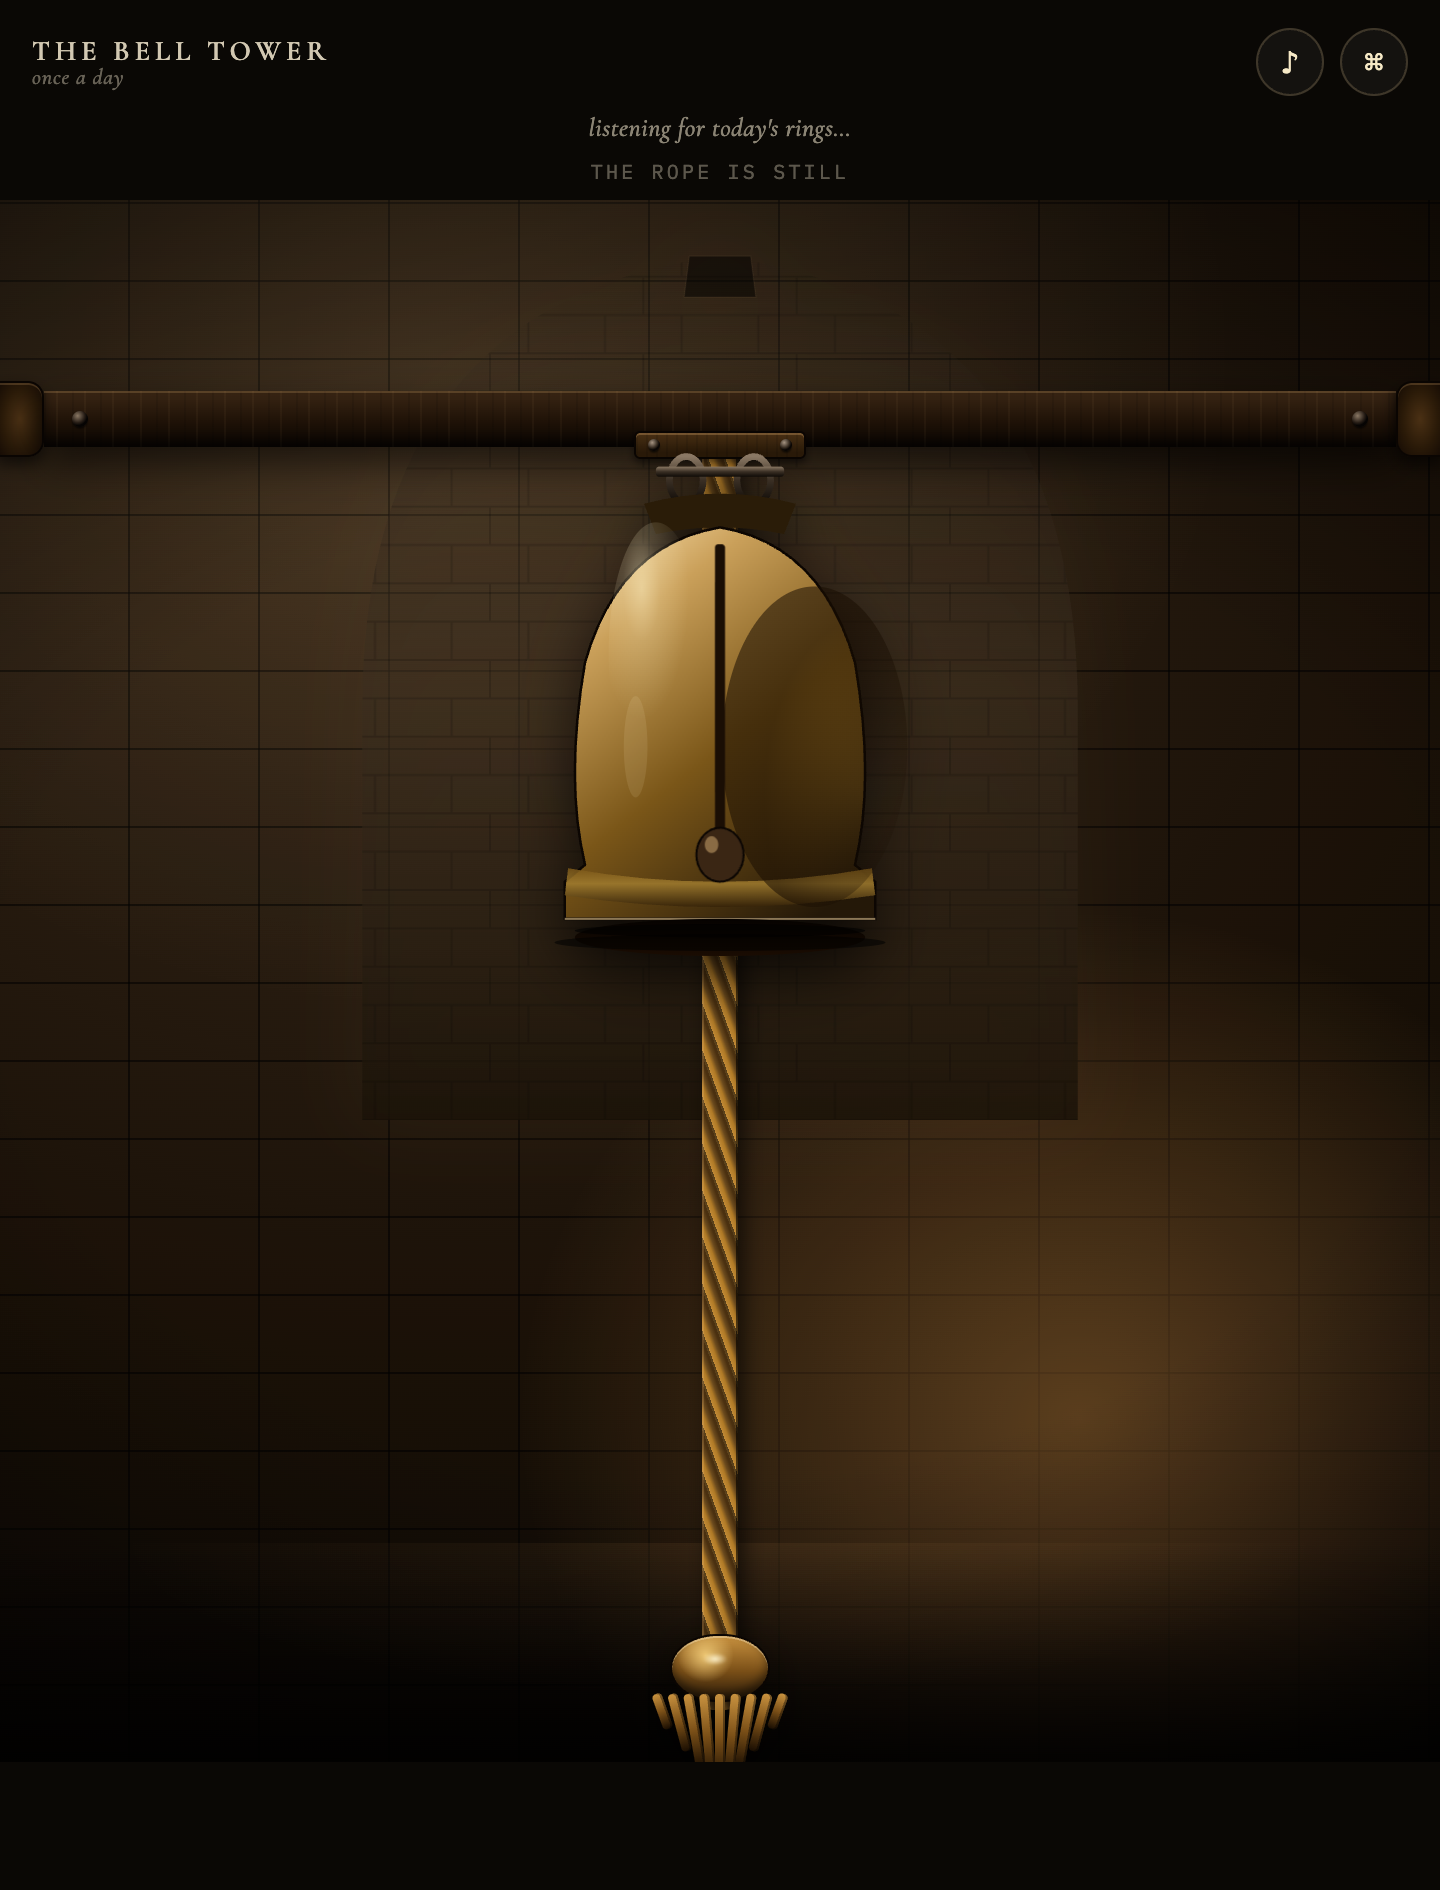
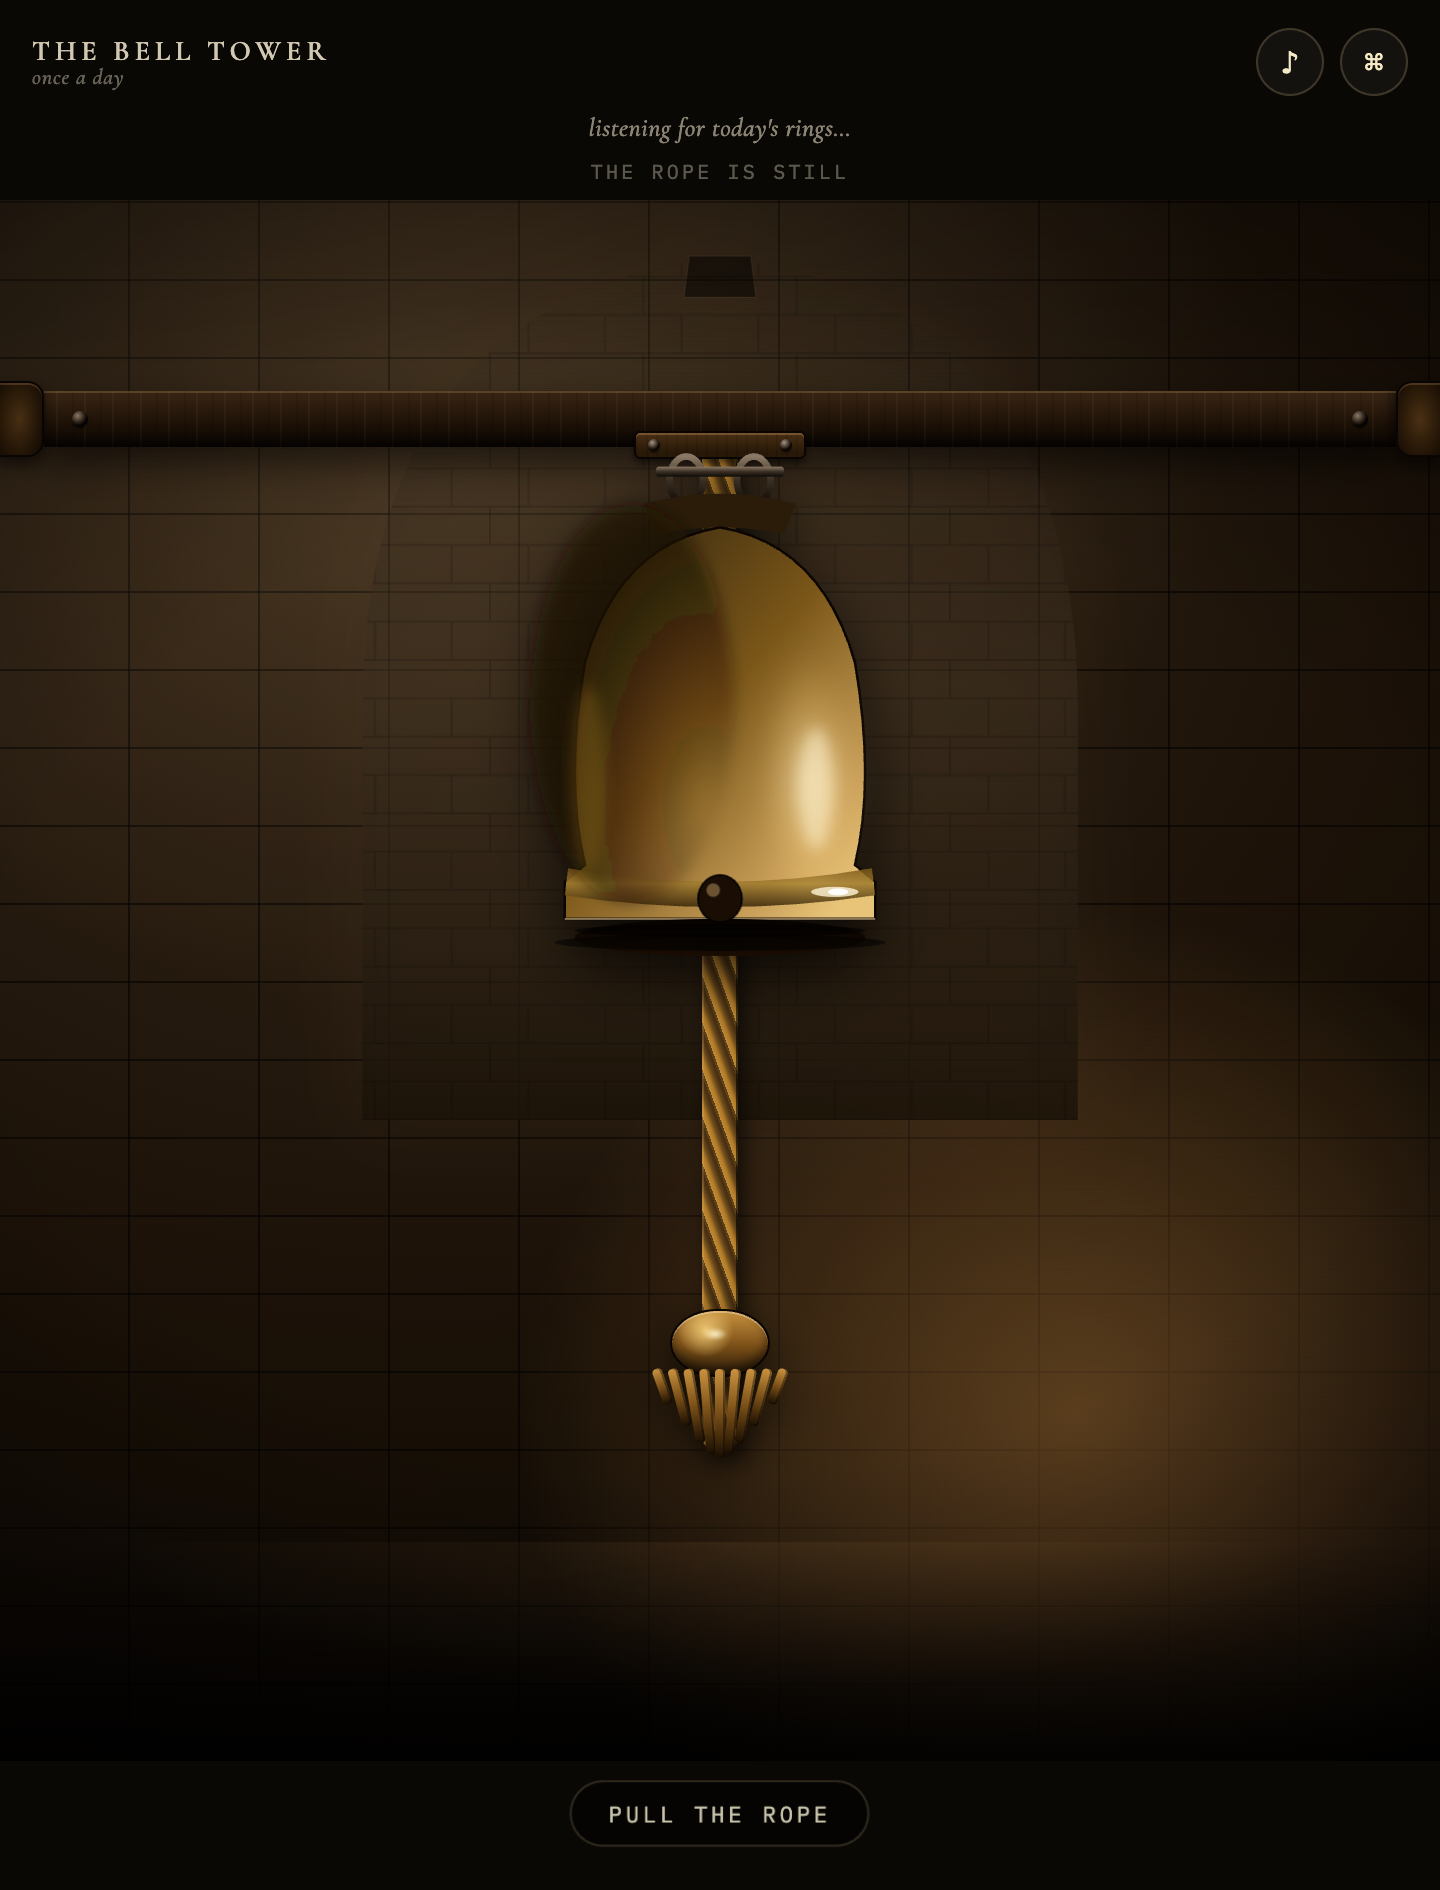
v0.3 — bell highlight/shadow rework + handle reach.
Visuals
- Body gradient flipped so the dark side matches the cathedral light
  source on the upper-left and the lit side runs to the lower-right.
- Highlight rewritten: heavily-blurred warm ellipse (diffuse base) + a
  tighter cream core (hot-spot near the equator) — reads as polished
  bronze rather than a painted-on band. Old narrow path created a
  central vertical seam; removed.
- Sharp rim specular at the sound-bow lip (kept).
- Bounce-light ellipse on the LEFT silhouette so the shadow side
  keeps warm color (implied reflection from the stone floor).
- Shadow blurred via SVG feGaussianBlur so it reads as occlusion,
  not paint.
- Clapper shaft removed — a real bell's metal occludes the shaft;
  only the BALL peeks through the mouth. The old vertical shaft was
  the source of the central seam down the bell body. Pivot still
  at (130,60) so swing arc is unchanged.

Handle reach
- Rope-wrap bottom 6% → 20% so there's headroom below the resting
  handle.
- Handle anchor -58px → -26px so the handle sits at the rope's tip
  instead of dangling far below.
- Pull extension 90px → 70px. At full pull the handle bottom now
  sits ~120px above the viewport bottom on a 390x844 device.

Changed region(s): [[0.375, 0.281, 0.625, 0.9677], [0.4375, 0.9365, 0.4688, 0.9677]]

diff --git a/src/BellTower/components/BellScene.tsx b/src/BellTower/components/BellScene.tsx
@@ -134,26 +134,46 @@ const BellScene = forwardRef<BellSceneHandle, BellSceneProps>(function BellScene
 
           <svg viewBox="0 0 260 320" width="220" height="270" aria-hidden="true">
             <defs>
-              <linearGradient id="bell-shoulder" x1="0.2" y1="0" x2="0.8" y2="1">
-                <stop offset="0"    stopColor="#f0d29a" />
-                <stop offset="0.18" stopColor="#caa05a" />
-                <stop offset="0.55" stopColor="#7a5618" />
-                <stop offset="1"    stopColor="#241808" />
+              {/* Body gradient — slightly darker on the upper-left (shadow
+                  side) and warmer on the lower-right (lit by candle). Stays
+                  in bronze range across the whole bell — real metal still
+                  has color in shadow; only the explicit shadow paint goes
+                  near-black. */}
+              <linearGradient id="bell-shoulder" x1="0.1" y1="0.1" x2="0.9" y2="0.95">
+                <stop offset="0"    stopColor="#3a2a10" />
+                <stop offset="0.45" stopColor="#7a5618" />
+                <stop offset="0.85" stopColor="#caa05a" />
+                <stop offset="1"    stopColor="#e8c478" />
               </linearGradient>
               <linearGradient id="bell-soundbow" x1="0" y1="0" x2="0" y2="1">
                 <stop offset="0" stopColor="#7a5618" />
                 <stop offset="0.4" stopColor="#a07c2f" />
                 <stop offset="1" stopColor="#352208" />
               </linearGradient>
-              <radialGradient id="bell-highlight" cx="0.35" cy="0.25" r="0.5">
-                <stop offset="0" stopColor="#fff3c8" stopOpacity="0.9" />
-                <stop offset="0.4" stopColor="#fff3c8" stopOpacity="0.32" />
-                <stop offset="1" stopColor="#fff3c8" stopOpacity="0" />
+              {/* Specular reflection — bright cream center, soft warm falloff.
+                  Centered (cx 0.5 cy 0.5) so the bright spot lives in the
+                  middle of the highlight band's bounding box. */}
+              <radialGradient id="bell-highlight" cx="0.5" cy="0.5" r="0.55">
+                <stop offset="0"    stopColor="#fff6d8" stopOpacity="0.85" />
+                <stop offset="0.35" stopColor="#ffe6a8" stopOpacity="0.45" />
+                <stop offset="0.75" stopColor="#ffd070" stopOpacity="0.15" />
+                <stop offset="1"    stopColor="#ffd070" stopOpacity="0" />
               </radialGradient>
-              <radialGradient id="bell-shadow" cx="0.78" cy="0.65" r="0.55">
-                <stop offset="0" stopColor="#1a0e02" stopOpacity="0.0" />
-                <stop offset="1" stopColor="#1a0e02" stopOpacity="0.55" />
+              {/* Shadow falloff — transparent on the bell-equator side
+                  (right-bottom of the shadow ellipse) and opaque on the
+                  silhouette side (upper-left). */}
+              <radialGradient id="bell-shadow" cx="0.85" cy="0.75" r="0.7">
+                <stop offset="0" stopColor="#1a0e02" stopOpacity="0" />
+                <stop offset="1" stopColor="#1a0e02" stopOpacity="0.65" />
               </radialGradient>
+              {/* Blur for soft-edge highlights so they read as reflections
+                  rather than painted-on shapes. */}
+              <filter id="bell-soft" x="-30%" y="-30%" width="160%" height="160%">
+                <feGaussianBlur stdDeviation="4" />
+              </filter>
+              <filter id="bell-soft-strong" x="-50%" y="-50%" width="200%" height="200%">
+                <feGaussianBlur stdDeviation="9" />
+              </filter>
               <linearGradient id="bell-mouth" x1="0" y1="0" x2="0" y2="1">
                 <stop offset="0" stopColor="#050200" />
                 <stop offset="1" stopColor="#1a0c02" />
@@ -203,12 +223,54 @@ const BellScene = forwardRef<BellSceneHandle, BellSceneProps>(function BellScene
               opacity="0.85"
             />
 
-            {/* Highlight — soft warm gleam on the upper-left where light hits */}
-            <ellipse cx="92" cy="125" rx="28" ry="78" fill="url(#bell-highlight)" opacity="0.55" />
-            <ellipse cx="80" cy="180" rx="7" ry="30" fill="rgba(255,240,200,0.10)" />
+            {/* Shadow — broad soft falloff on the upper-left half, away from
+                the candle. Drawn BEFORE the highlight so the highlight
+                layers on top. Blurred so it reads as occlusion, not paint. */}
+            <ellipse cx="78" cy="155" rx="60" ry="118" fill="url(#bell-shadow)" filter="url(#bell-soft)" />
 
-            {/* Shadow side — opposite the light, in the lower-right */}
-            <ellipse cx="186" cy="180" rx="55" ry="95" fill="url(#bell-shadow)" />
+            {/* Primary highlight — diffuse warm reflection on the lower-right
+                shoulder/waist. A tall ellipse positioned where the convex
+                surface bulges toward the candle. Heavily blurred so it
+                reads as polished bronze, not painted highlight. */}
+            <ellipse
+              cx="183"
+              cy="200"
+              rx="26"
+              ry="72"
+              fill="url(#bell-highlight)"
+              filter="url(#bell-soft-strong)"
+              opacity="0.95"
+            />
+            {/* Secondary brighter core — narrower, tighter ellipse stacked
+                inside the primary highlight for a believable "wet metal"
+                hot spot near the equator. */}
+            <ellipse
+              cx="187"
+              cy="205"
+              rx="10"
+              ry="36"
+              fill="#fff3d0"
+              filter="url(#bell-soft)"
+              opacity="0.55"
+            />
+
+            {/* Sharp rim specular on the sound-bow lip where the metal edge
+                catches a tight glint of the candle flame. NOT blurred — the
+                rim itself is sharp so its reflection is too. */}
+            <ellipse cx="198" cy="266" rx="14" ry="3" fill="#fff5d8" opacity="0.8" />
+            <ellipse cx="200" cy="266" rx="6" ry="2" fill="#ffffff" opacity="0.95" />
+
+            {/* Bounce light on the LEFT silhouette — implies warm reflection
+                from the stone floor so the shadow side keeps some color. */}
+            <ellipse
+              cx="52"
+              cy="200"
+              rx="10"
+              ry="56"
+              fill="#9a6c1c"
+              filter="url(#bell-soft)"
+              opacity="0.35"
+            />
 
             {/* Lip rim — thin highlight along the bottom curve */}
             <path
@@ -225,18 +287,21 @@ const BellScene = forwardRef<BellSceneHandle, BellSceneProps>(function BellScene
             <ellipse cx="130" cy="293" rx="86" ry="11" fill="url(#bell-mouth)" />
             <ellipse cx="130" cy="289" rx="86" ry="4" fill="#000" opacity="0.6" />
 
-            {/* Clapper — own group, rotates independently around its top pivot.
-                The clapper hangs from the inside top of the bell. */}
+            {/* Clapper — own group, rotates independently around the
+                top-interior pivot. We only render the BALL (no shaft) since
+                a real bell's metal occludes the shaft; you only see the
+                clapper peeking through the mouth at the bottom. The pivot
+                stays at (130,60) so the rotation arc matches a full-length
+                clapper, but the visible mass lives at the mouth. */}
             <g
               ref={clapperRef}
               className="bt-bell__clapper"
               style={{ transformOrigin: '130px 60px' } as React.CSSProperties}
             >
-              {/* Shaft */}
-              <rect x="127" y="60" width="6" height="170" rx="2" fill="#1a0e04" />
-              {/* Ball at the bottom */}
-              <ellipse cx="130" cy="244" rx="14" ry="16" fill="#3a2614" stroke="#0a0502" strokeWidth="1.2" />
-              <ellipse cx="125" cy="238" rx="4" ry="5" fill="rgba(255,210,140,0.4)" />
+              {/* Ball at mouth level — sits just inside the lip so swinging
+                  reveals it on alternating sides. */}
+              <ellipse cx="130" cy="270" rx="13" ry="14" fill="#1a0e04" stroke="#000" strokeWidth="1" />
+              <ellipse cx="126" cy="265" rx="4" ry="4" fill="rgba(255,210,140,0.35)" />
             </g>
 
             {/* Cast-shadow ellipse beneath the bell rim — implies the bell is 3D */}

diff --git a/src/BellTower/components/BellScene.less b/src/BellTower/components/BellScene.less
@@ -209,10 +209,13 @@
 // occluded by the bell body, giving the read that the rope emerges from
 // inside the bell. Below the bell mouth, the rope is the only thing in
 // that column so it shows fully.
+//
+// `bottom: 20%` leaves headroom below the resting handle so the user can
+// pull the handle DOWN ~70px without it leaving the visible scene.
 .bt-rope-wrap {
   position: absolute;
   top: calc(12% + 30px);
-  bottom: 6%;
+  bottom: 20%;
   left: 50%;
   transform: translateX(-50%);
   z-index: 3;
@@ -222,8 +225,10 @@
 .bt-rope {
   position: relative;
   width: 18px;
-  // Rope visibly extends with the pull (up to +90px)
-  height: calc(100% + calc(var(--pull) * 90px));
+  // Rope visibly extends with the pull. Cap at +70px so the handle stays
+  // comfortably inside the scene at full pull (with the rope-wrap's
+  // 20% bottom inset there's room to spare).
+  height: calc(100% + calc(var(--pull) * 70px));
   transition: height 60ms linear;
 
   // Braided rope: dense diagonal twist via stacked repeating gradients.
@@ -270,7 +275,9 @@
 
   &__handle {
     position: absolute;
-    bottom: -58px;
+    // Anchor handle just below the rope's tip so it sits at the rope end,
+    // not dangling far below it (which used to push it off-screen).
+    bottom: -26px;
     left: 50%;
     transform: translateX(-50%);
     width: 110px;